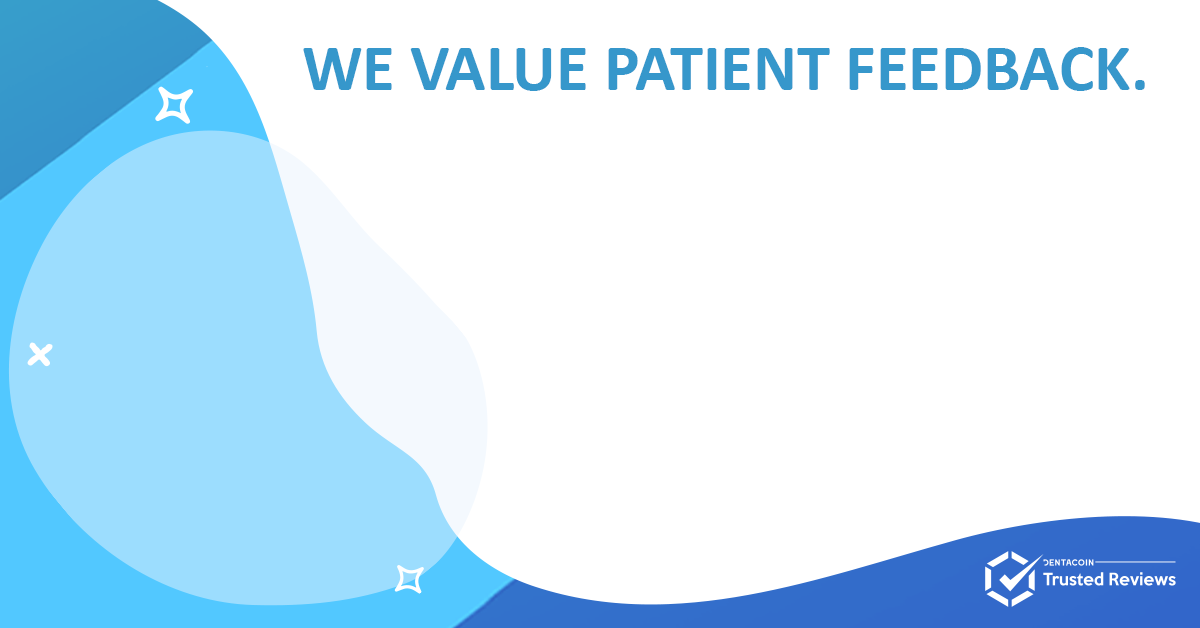
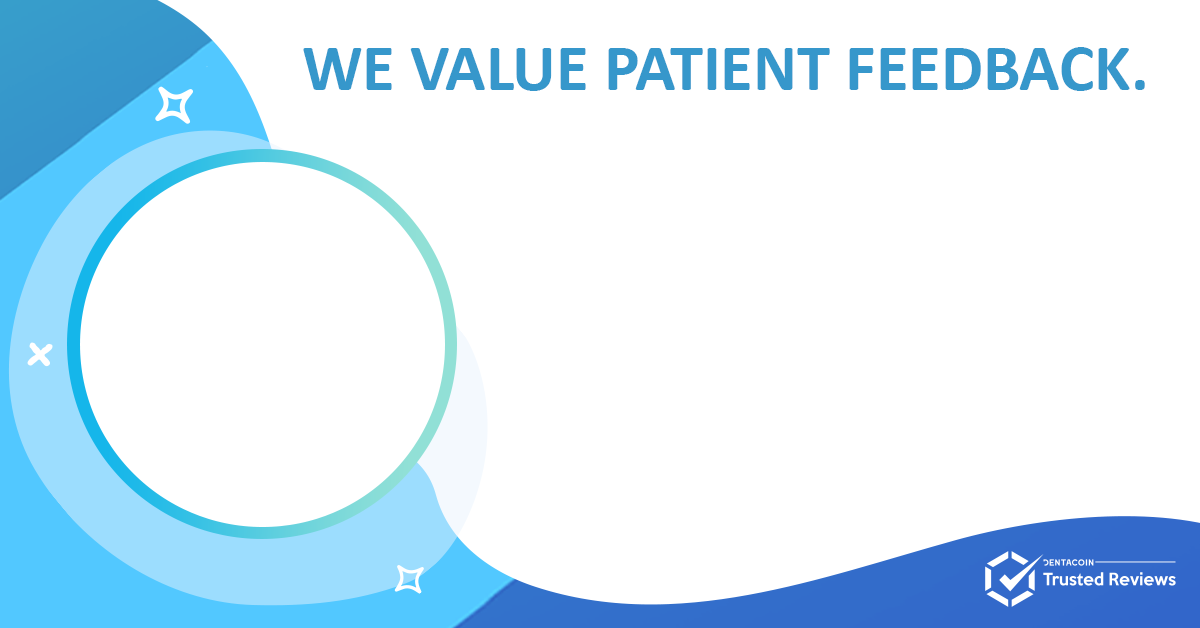
trp new social images

Changed region(s): [[0.0308, 0.2118, 0.4008, 0.8774]]

diff --git a/app/Models/Review.php b/app/Models/Review.php
@@ -212,8 +212,10 @@ class Review extends Model {
             });
 
             $voffset = (3 - $lines)*10;
+            $title = true;
         } else {
             $voffset = 0;
+            $title = false;
         }
 
 
@@ -224,9 +226,15 @@ class Review extends Model {
         $top = 355;
         $top -= $lines*38;
 
-        $img->text($answer, 573, $top - $voffset, function($font) {
+        if (empty($title) && $lines < 3) {
+            $font_size = 40;
+        } else {
+            $font_size = 35;
+        }
+
+        $img->text($answer, 573, $title ? $top - $voffset : 260 - ($lines * 30), function($font) use ($font_size) {
             $font->file(public_path().'/fonts/Calibri.ttf');
-            $font->size(35);
+            $font->size($font_size);
             $font->color('#000000');
             $font->align('left');
             $font->valign('top');
@@ -246,7 +254,7 @@ class Review extends Model {
         }
 
         if ($this->verified) {
-            $img->insert( public_path().'/img-trp/cover-trusted.png' , 'top-left', 921, 424 );
+            $img->insert( public_path().'/img-trp/cover-trusted.png' , 'top-left', 921, $title ? 424 : 405 );
         }
 
 
@@ -263,14 +271,14 @@ class Review extends Model {
         $step = 67;
         $startX = 573;
         for($i=1;$i<=5;$i++) {
-            $img->insert( public_path().'/img-trp/cover-star-review-new-gray.png' , 'top-left', $startX, 409 );
+            $img->insert( public_path().'/img-trp/cover-star-review-new-gray.png' , 'top-left', $startX, $title ? 409 : 390 );
             $startX += $step;
         }
 
         $step = 67;
         $startX = 573;
         for($i=1;$i<=$this->rating;$i++) {
-            $img->insert( public_path().'/img-trp/cover-star-review-new.png' , 'top-left', $startX, 409 );
+            $img->insert( public_path().'/img-trp/cover-star-review-new.png' , 'top-left', $startX, $title ? 409 : 390 );
             $startX += $step;
         }
 
@@ -278,7 +286,7 @@ class Review extends Model {
         if($rest) {
             $halfstar = Image::canvas(60*$rest, 61, '#fff');
             $halfstar->insert( public_path().'/img-trp/cover-star-review-new.png', 'top-left', 0, 0 );
-            $img->insert($halfstar , 'top-left', $startX, 409 );
+            $img->insert($halfstar , 'top-left', $startX, $title ? 409 : 390 );
         }
 
         $img->save($path);

diff --git a/app/Models/User.php b/app/Models/User.php
@@ -1383,8 +1383,11 @@ class User extends Model implements AuthenticatableContract, CanResetPasswordCon
             $img->insert( public_path().'/img-trp/cover-dentist-new.png');
 
             $avatar = Image::make( $this->getImagePath(true) );
-            $avatar->resize(393, 393);
-            $img->insert($avatar , 'top-left', 66, 150 );
+            $avatar->resize(366, 365);
+            $avatar_mask = Image::canvas(366, 365, '#fff');
+            $avatar_mask->insert( $avatar, 'top-left', 0, 0 );
+            $avatar_mask->insert( public_path().'/img-trp/cover-dentist-mask-new.png' , 'top-left', 0, 0 );
+            $img->insert($avatar_mask , 'top-left', 80, 162 );
         } else {
             $img->insert( public_path().'/img-trp/cover-dentist-new-no-avatar.png');
         }

diff --git a/app/Http/Controllers/FrontController.php b/app/Http/Controllers/FrontController.php
@@ -631,6 +631,6 @@ class FrontController extends BaseController
             }
         }
 
-        $params['cache_version'] = '2019-09-19-06';
+        $params['cache_version'] = '2019-09-20';
     }
 }
